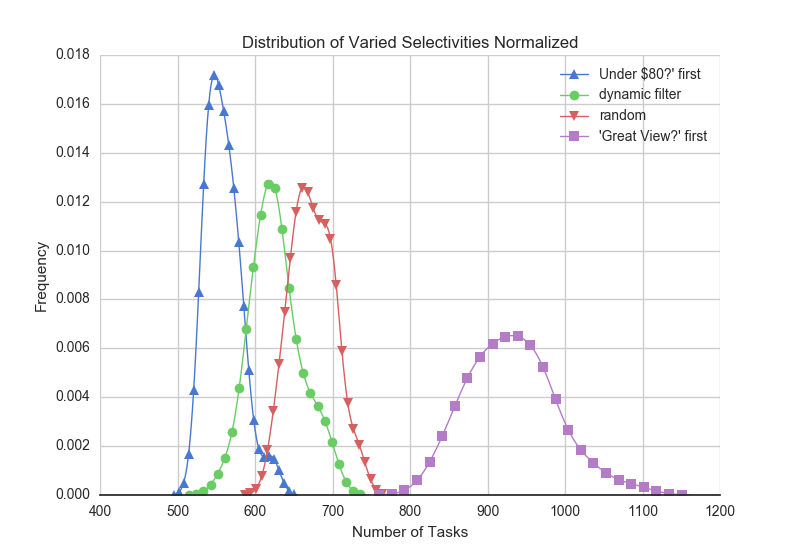
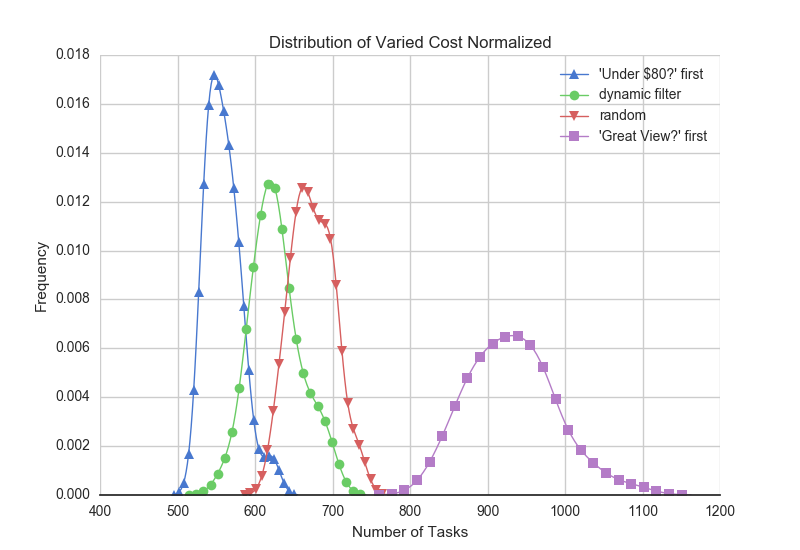
update legend missing ' and name of plot varied selectivities normalized

Changed region(s): [[0.2812, 0.0618, 0.7188, 0.0927], [0.75, 0.1236, 0.875, 0.1545]]

diff --git a/dynamicfiltersite_summer2016/dynamicfilterapp/simulation_files/plotScript_andys_gen_dist_of_varied_cost_normalized.py b/dynamicfiltersite_summer2016/dynamicfilterapp/simulation_files/plotScript_andys_gen_dist_of_varied_cost_normalized.py
@@ -22,7 +22,7 @@ ax = fig.add_subplot(111)
 sns.despine(left=True)
 
 # the histogram of the data
-alg_list = ["Under $80?' first", "dynamic filter", "random", "'Great View?' first"]
+alg_list = ["'Under $80?' first", "dynamic filter", "random", "'Great View?' first"]
 linestyles=["-","-","-","-"]
 markers=["^","o","v","s"]
 for i in range(len(num_tasks_array)):
@@ -30,10 +30,10 @@ for i in range(len(num_tasks_array)):
 
 ax.set_xlabel('Number of Tasks')
 ax.set_ylabel('Frequency')
-ax.set_title('Distribution of Varied Selectivities Normalized')
+ax.set_title('Distribution of Varied Cost Normalized')
 #ax.set_xlim(100, 320)
 ax.grid(True)
 
 #plt.tight_layout()
 #plt.show()
-plt.savefig('graphs/andys_dist_of_varied_selectivities_normalized.png')
+plt.savefig('graphs/andys_dist_of_varied_cost_normalized.png')
